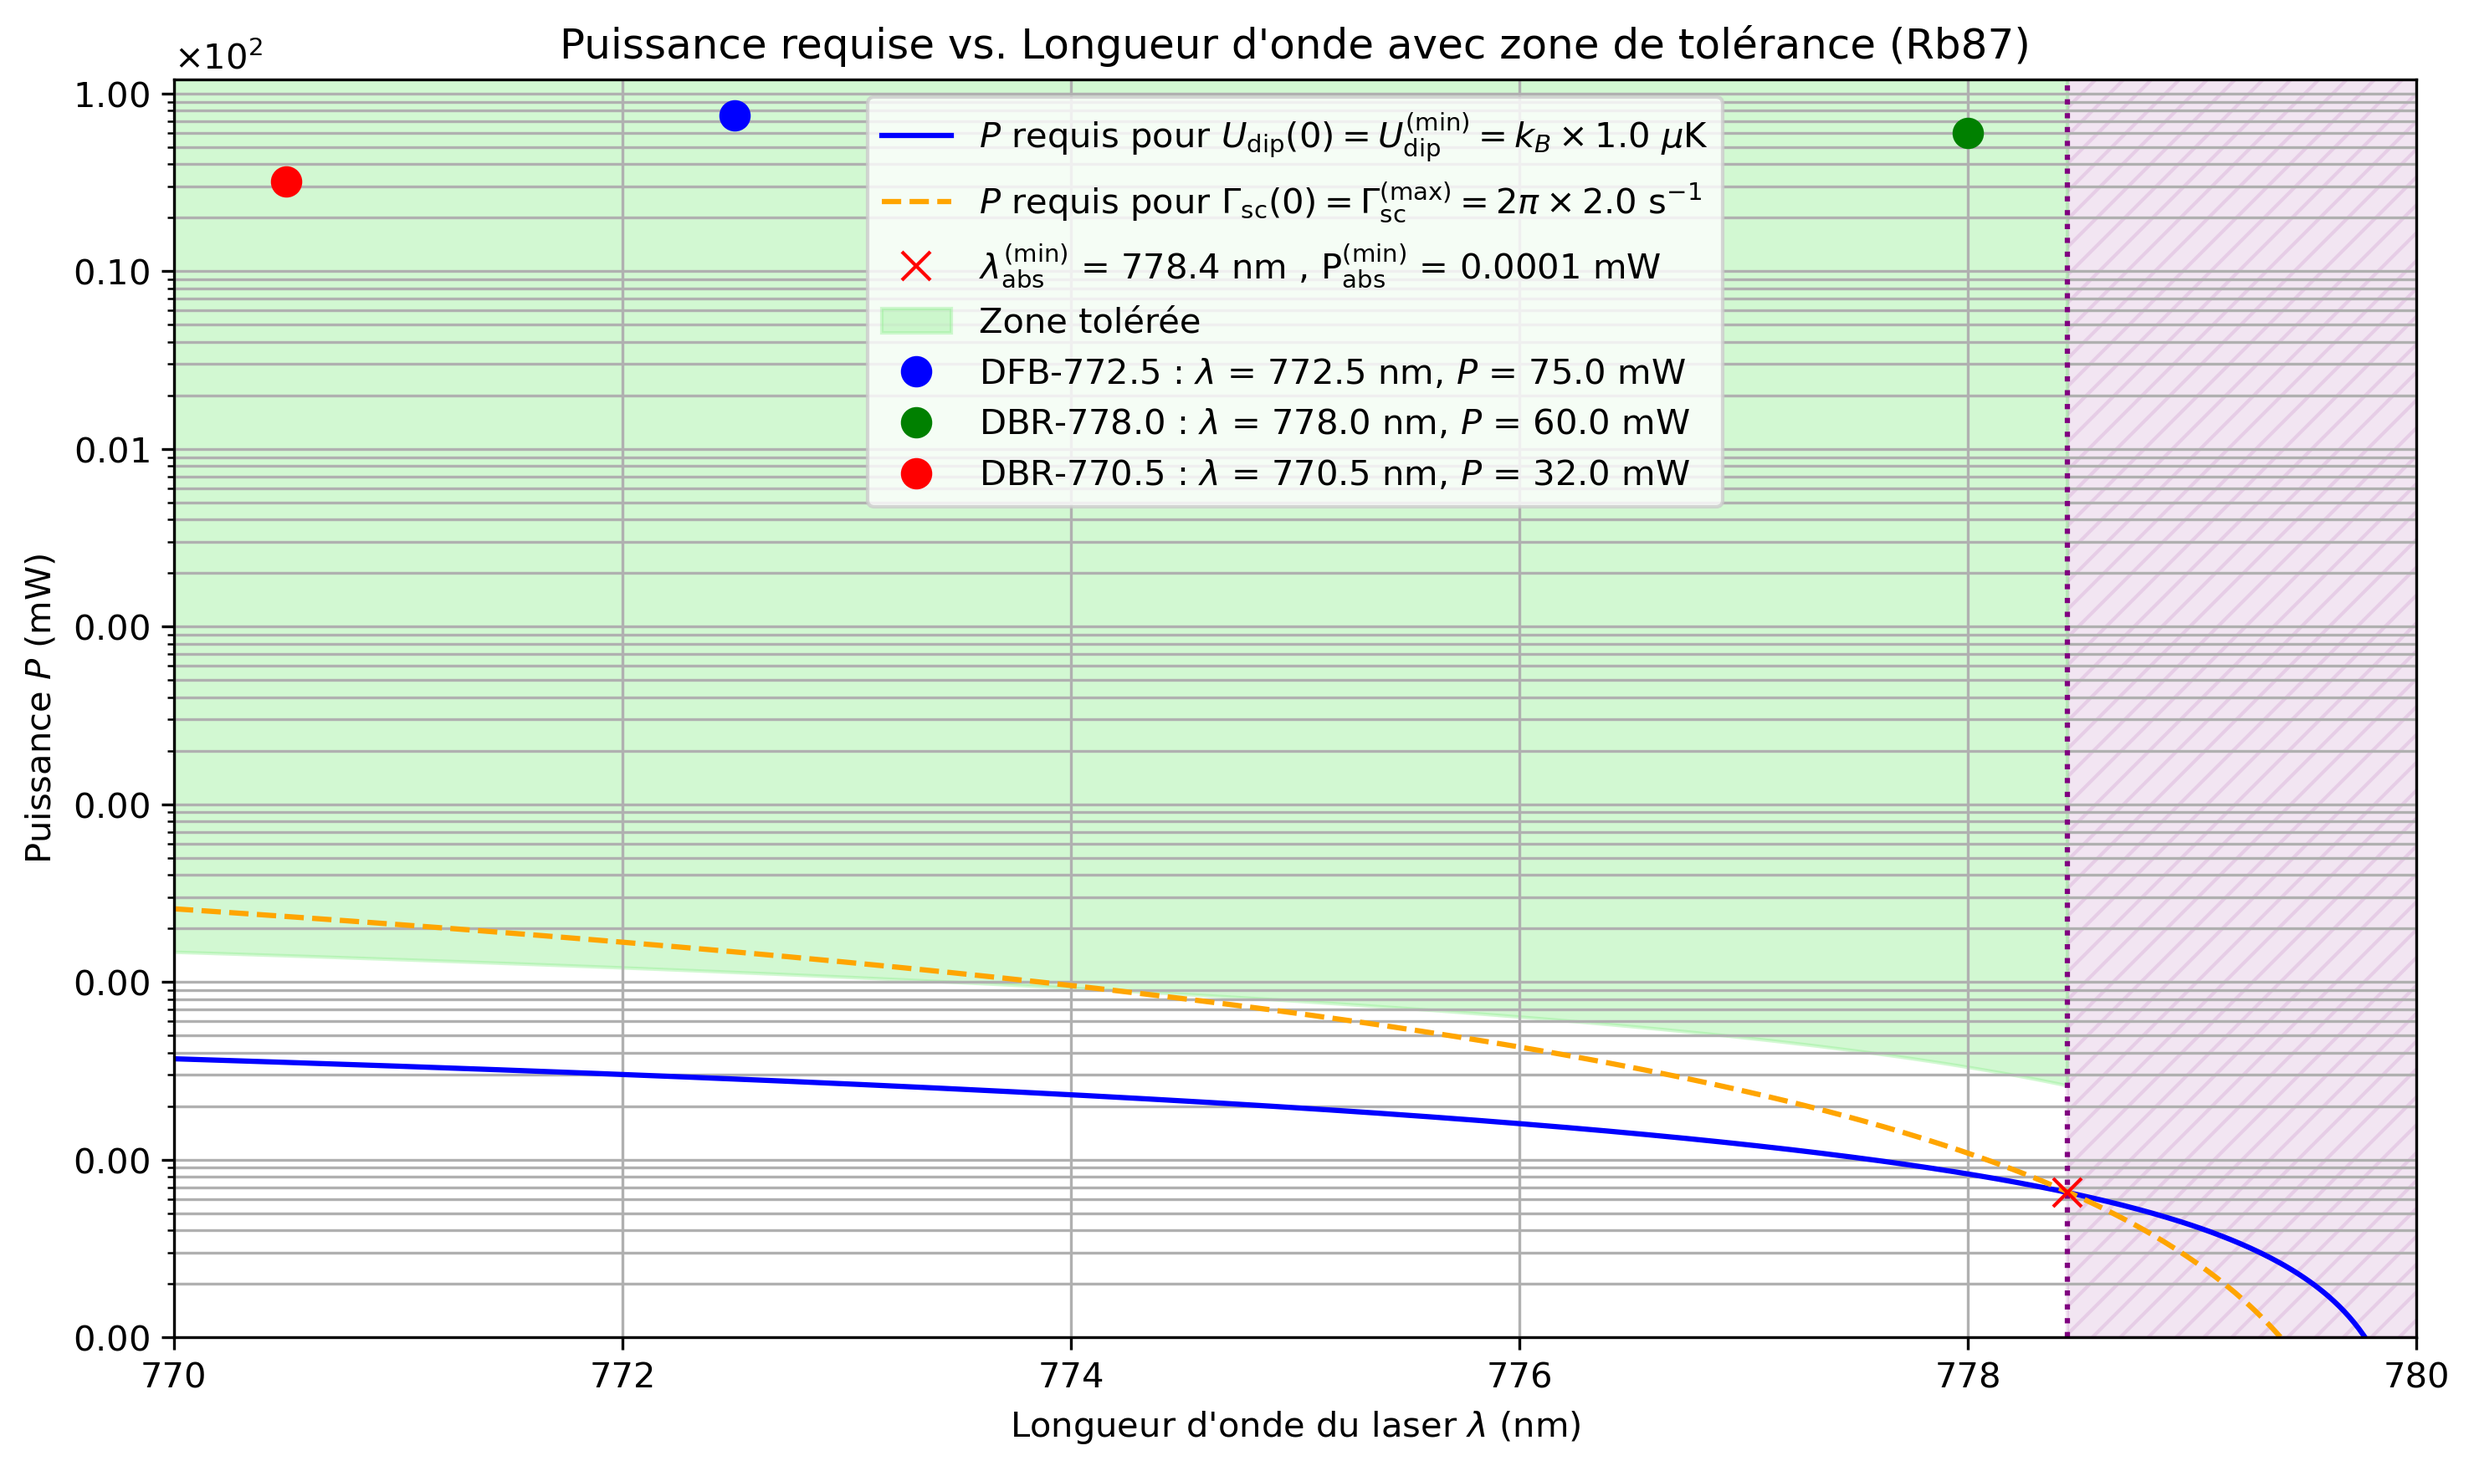
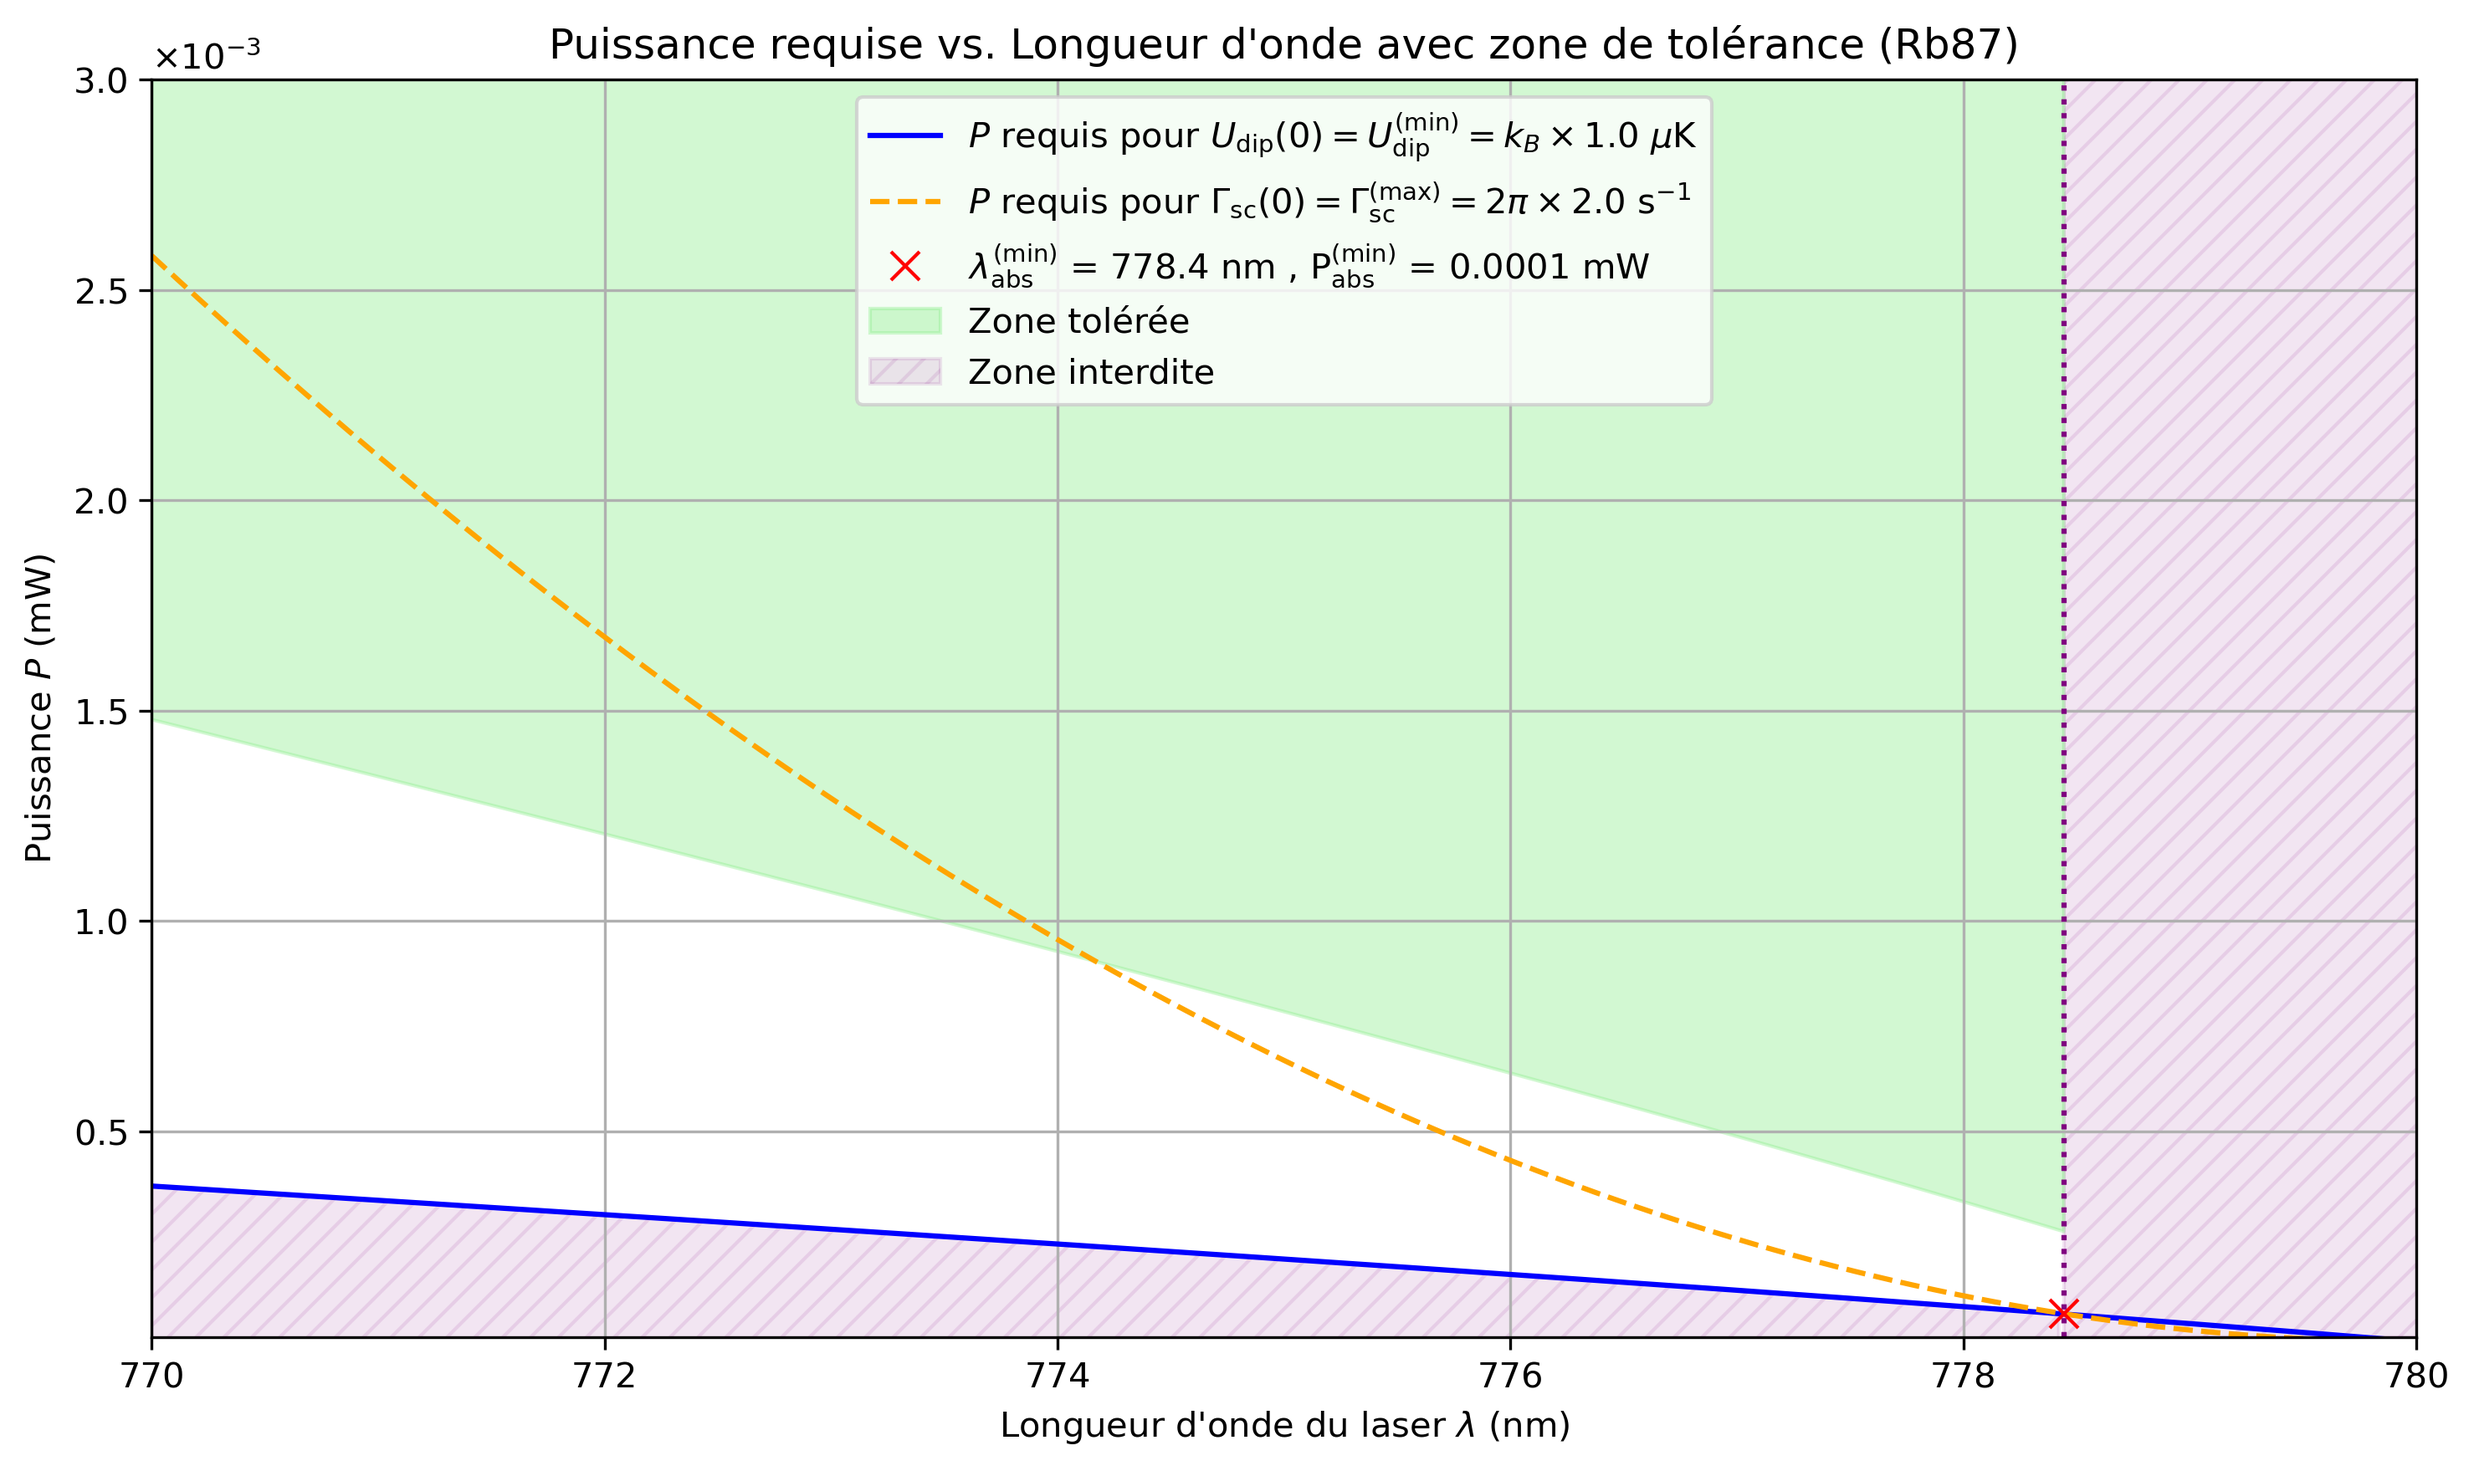
Auto-sync: 2025-08-20 23:15:57

Changed region(s): [[0.0311, 0.0, 0.9956, 0.9824]]

diff --git a/chapters/07_Dipolaire.tex b/chapters/07_Dipolaire.tex
@@ -771,7 +771,6 @@ Pour rappel, les opérateurs de montée/descente agissant sur les états propres
 où l'opérateur $\operator{A} \in \{ \operator{S} , \operator{L} , \operator{J} , \cdots \}$.
 
 Donc 
-
 \begin{eqnarray*} 
 	\ket{5\,^2P_{1/2},m_J' = \pm\tfrac12} &=& \mp\sqrt{\tfrac{1}{3}}\,\ket{ m_L'=0,\,m_S'=\pm\tfrac12} \;\pm\;\sqrt{\tfrac{2}{3}}\,\ket{m_L'=\pm 1,\,m_S'=\mp\tfrac12},\\ 
 	\ket{5\,^2P_{3/2},m_J' = \pm\tfrac12} &=& +\sqrt{\tfrac{2}{3}}\,\ket{m_L'=0,\,m_S'=\pm\tfrac12} \;+\;\sqrt{\tfrac{1}{3}}\,\ket{ m_L'=\pm 1,\,m_S'=\mp\tfrac12},\\
@@ -784,7 +783,6 @@ Cette notation sera utile par la suite pour analyser les transitions permises et
 \end{eqnarray*}
 
 il vient que 
-
 \begin{eqnarray*}
 	\langle 5 {~}^2P_{1/2} , m_J' = \pm\tfrac12 \vert \operatorvec{D} \cdot \operatorvec{u}\vert 5 {~}^2S_{1/2} , m_J = \pm  \tfrac12 \rangle	 &=& \mp  \sqrt{\frac{1}{3}} d_{\scriptstyle 5S \rightarrow 5P},\\
 	\langle 5 {~}^2P_{3/2} , m_J' = \pm \tfrac12 \vert \operatorvec{D} \cdot \operatorvec{u}\vert 5 {~}^2S_{1/2} , m_J = \pm  \tfrac12 \rangle	 &=& \sqrt{\frac{2}{3}} d_{\scriptstyle 5S \rightarrow 5P} , \\
@@ -853,20 +851,20 @@ Dans cette configuration, les faisceaux lasers génèrent un potentiel optique c
 \subsubsection*{Critères de sélection}
 
 Deux critères fondamentaux guident notre choix de laser :
-\begin{itemize}
+\begin{itemize}[label = $\bullet$]
 	\item Le {\bf potentiel dipolaire} au niveau des atomes, $U_{dip}(0)$, doit être supérieur à une valeur minimale $U_{dip}^{(min)}$, fixée à :
-		\[
-			U_{dip}(0)  \geq U_{dip}^{(min)} = k_B \times 1 \mu K.
-		\]
+		\begin{equation}
+			U_{dip}(0)  \geq U_{dip}^{(min)} = k_B \times 1 \mu K.	
+		\end{equation}
 		Cette valeur garantit une barrière suffisante pour confiner les atomes contre leur agitation thermique résiduelle ou leur expansion quantique.
 	\item Le {\bf taux de diffusion spontané}  au point $x^\ast$ défini par $U_{dip}(x^\ast) = U_{dip}(0)/2$ doit rester inférieur à une valeur seuil pour limiter l’échauffement et les pertes :
-		\[
-			\Gamma_{sp}(x^\ast) \leq 2\pi \times 1~s^{-1}.
-		\]
+		\begin{equation}
+			\Gamma_{sp}(x^\ast) \leq 2\pi \times 1~s^{-1}.	
+		\end{equation}
 		Ce critère conduit, en utilisant le fait que le potentiel $U_{dip}^{(min)}(\vec{r})$ et le taux de diffusion spontanée $\Gamma_{sp}(\vec{r})$ soit proportionnele à l’intensité $I(\vec{r})$ , à la borne stricte suivante :
-		\[
-			\Gamma_{sp}(0) \leq \Gamma_{sp}^{(max)} = 2\pi \times 2~s^{-1}.
-		\]
+		\begin{equation}
+			\Gamma_{sp}(0) \leq \Gamma_{sp}^{(max)} = 2\pi \times 2~s^{-1}.	
+		\end{equation}
 \end{itemize}
 
 \subsubsection*{Figure de mérite : ratio potentiel / diffusion}
@@ -896,11 +894,15 @@ Un calcul numérique montre que, sous ces contraintes, il est nécessaire de sé
 %avec $P$ la puissance incidente. 
 \subsubsection*{Contraintes sur la puissance laser}
 
-Le faisceau utilisé est gaussien, avec un waist typique $w_0 \sim 1~\mu\text{m}$. %À première vue, cela peut sembler contre-intuitif dans le cadre d’un piégeage \textbf{blue-detuned}, où les atomes sont repoussés des régions d’intensité maximale. En effet, dans les pièges conventionnels (red-detuned), les atomes sont attirés vers zone  des maxima d’intensité ; on cherche alors à maximiser l’intensité sur une large zone , . 
+%À première vue, cela peut sembler contre-intuitif dans le cadre d’un piégeage \textbf{blue-detuned}, où les atomes sont repoussés des régions d’intensité maximale. En effet, dans les pièges conventionnels (red-detuned), les atomes sont attirés vers zone  des maxima d’intensité ; on cherche alors à maximiser l’intensité sur une large zone , . 
 
 %Dans notre cadre d’un piégeage \textbf{blue-detuned}, les atomes sont confinés dans la région \textbf{centrale de faible intensité}, située entre deux faisceaux focalisés. Le piégeage repose donc sur la présence de \textbf{parois optiques abruptes} générées par les faisceaux blue-detuned. Cela impose que chaque faisceau présente un fort gradient d’intensité, ce qui nécessite un waist petit.
 
-Dans le cadre d’un piégeage \textbf{blue-detuned}, les atomes sont confinés dans une région \textbf{centrale de faible intensité}, située entre deux faisceaux focalisés. Le piégeage repose alors sur la formation de \textbf{parois optiques abruptes}, créées par les gradients d’intensité des faisceaux. Pour obtenir un gradient suffisamment marqué, chaque faisceau doit présenter un \textbf{waist étroit}.\\
+Le faisceau utilisé est gaussien. On rappelle que le \textit{waist} $w_0$ désigne le rayon minimal du faisceau, défini comme la distance radiale $r$ pour laquelle l’intensité transverse chute à $1/e^2$ de sa valeur au centre du faisceau, et ce à la position où le faisceau est le plus focalisé. Typiquement, nous utilisons ici des faisceaux avec un waist de l’ordre de $w_0 \sim 1~\mu\text{m}$.  
+
+\medskip
+
+Dans le cadre d’un piégeage \textbf{blue-detuned}, les atomes sont confinés dans une région \textbf{centrale de faible intensité}, située entre deux faisceaux focalisés. Le piégeage repose alors sur la formation de \textbf{parois optiques abruptes}, engendrées par les gradients d’intensité des faisceaux. Pour obtenir un gradient suffisamment marqué, il est nécessaire que chaque faisceau possède un \textbf{waist étroit}.
 
 %Pour créer une boîte optique efficace, il faut que :
 %\begin{itemize}
@@ -918,15 +920,15 @@ Dans le cadre d’un piégeage \textbf{blue-detuned}, les atomes sont confinés 
 %Ce choix est également compatible avec les contraintes expérimentales : il est accessible avec des objectifs à grande ouverture numérique (NA~$\sim 0.32$) tout en restant compatible avec un montage sur fibre ou lentille asphérique. Il correspond aux valeurs couramment utilisées pour les expériences de piégeage unidimensionnel, typiquement $w_0 \sim 1~\mu\text{m}$.
 
 L’intensité maximale atteinte au centre du faisceau est donnée par :
-\[
-I(0) = \frac{2P}{\pi w_0^2}
-\]
+\begin{eqnarray}
+	I(0) = \frac{2P}{\pi w_0^2},
+\end{eqnarray}
 avec $P$ la puissance incidente. Cette expression relie directement la puissance requise aux contraintes de piégeage, et sera utilisée pour définir les bornes admissibles sur $P(\lambda)$ pour une longueur d’onde donnée.
 
 En reportant cette intensité dans les expressions standards du potentiel et de la diffusion, on obtient les bornes admissibles pour la puissance :
-\begin{eqnarray*}
+\begin{eqnarray}
 	 \underbrace{U_{dip}^{(min)} \cdot  \frac{\pi w_0^2}{2} \frac{8 I_{sat}}{\Gamma^2} \cdot \left( \frac{ 1}{ 3 \Delta_1} + \frac{2 }{ 3 \Delta_2}  \right )^{-1} }_{P^{(min)}(\lambda)}  \leq P(\lambda) \leq \underbrace{ \Gamma_{sc}^{(max)} \cdot \frac{\pi w_0^2}{2} \frac{8 I_{sat}}{\Gamma^3} \cdot \left( \frac{ 1}{ 3 \Delta_1^2} + \frac{2 }{ 3 \Delta_2^2}  \right )^{-1}}_{ P^{(max)}(\lambda)} 
-\end{eqnarray*}
+\end{eqnarray}
 
 \begin{center}
 \textit{[Insérer ici une figure avec les courbes $P^{(min)}(\lambda)$ et $P^{(max)}(\lambda)$, et la zone autorisée]}
@@ -935,7 +937,7 @@ En reportant cette intensité dans les expressions standards du potentiel et de 
 \begin{figure}[H]
     \centering
     \includegraphics[width=0.7\linewidth]{figures/07_Dipolaire/puissance_vs_lambda_log.png}
-    \caption{$P^{(min)}(\lambda)$ et $P^{(max)}(\lambda)$}
+    \caption{Puissance requise en fonction de la longueur d'onde pour $w_0 = 1 \, \mu m$ }
 \end{figure}
 
 L’intersection de ces courbes définit une {\bf zone de faisabilité expérimentale} dans l’espace $(\lambda, P)$. Le croisement des courbes fournit la longueur d’onde maximale admissible :
@@ -957,10 +959,9 @@ Un premier filtrage des sources laser admissibles impose que la longueur d’ond
 L’ensemble des éléments optiques traversés par le faisceau — incluant la sortie de fibre, les lentilles de collimation et de focalisation, les miroirs de redirection, les diaphragmes, ainsi que le diviseur de faisceau — induit des pertes cumulées non négligeables. Une estimation réaliste, fondée sur les caractéristiques typiques des composants et l'expérience de montage, indique que les pertes globales s’élèvent à environ $60$ à $75\%$.
 
 Ces pertes doivent être prises en compte dès le dimensionnement initial du système laser, afin de garantir que la puissance effectivement disponible au niveau des atomes soit suffisante pour atteindre les profondeurs de piège souhaitées. En pratique, on modélise cette efficacité par un facteur global $\eta$, défini comme :
-
-\[
-P_{\text{utile}} = \eta \cdot P_{\text{laser}}, \quad \text{avec} \quad \eta \simeq 0.25.
-\]
+\begin{eqnarray*}
+	P_{\text{utile}} = \eta \cdot P_{\text{laser}}, \quad \text{avec} \quad \eta \simeq 0.25.	
+\end{eqnarray*}
 
 Ce coefficient sera utilisé dans la suite pour évaluer les puissances minimales requises des sources laser candidates. Une marge de sécurité est également conservée pour pallier les éventuels désalignements ou dégradations optiques en conditions expérimentales réelles.
 
@@ -992,7 +993,7 @@ Ce coefficient sera utilisé dans la suite pour évaluer les puissances minimale
 
 Trois sources laser ont été sélectionnées pour la réalisation de la boîte optique blue-detuned destinée au piégeage dipolaire du Rubidium-87, dont deux répondent aux conditions de puissance admissibles $P^{(min)}(\lambda)$ et $P^{(max)}(\lambda)$.
 
-\begin{itemize}
+\begin{itemize}[label = $\bullet$]
     \item \textbf{DFB} à $\lambda = 772.5~\text{nm}$, puissance $P = 75~\text{mW}$.
     \item \textbf{DBR} à $\lambda = 778.0~\text{nm}$, puissance $P = 60~\text{mW}$. 
     \item \textbf{DBR} à $\lambda = 770.5~\text{nm}$, puissance $P = 32~\text{mW}$.
@@ -1029,6 +1030,12 @@ Avec le recul, cette valeur s’est avérée trop pessimiste. Le système optiqu
 \medskip
 
 Avec un waist de $w_0 = 300~\mu\text{m}$, les puissances minimales requises augmentent considérablement en raison de la baisse d’intensité au centre du faisceau. On obtient alors des puissances nécessaires de l’ordre de $102~\text{mW}$ pour la DFB à $772.5~\text{nm}$, $30~\text{mW}$ pour la DBR à $778.0~\text{nm}$, et $127~\text{mW}$ pour la DBR à $770.5~\text{nm}$. Seul le laser à $778.0~\text{nm}$ satisfait cette condition sans amplification supplémentaire. En revanche, les deux autres lasers se trouvent sous-dimensionnés dans ce scénario, ce qui justifie le recours à un amplificateur optique dans le cas du laser à $770.5~\text{nm}$.
+
+\begin{figure}[H]
+    \centering
+    \includegraphics[width=0.7\linewidth]{figures/07_Dipolaire/puissance_vs_lambda_log_300.png}
+    \caption{Puissance requise en fonction de la longueur d'onde pour $w_0 = 300 \, \mu m$ }
+\end{figure}
 
 \medskip
 
